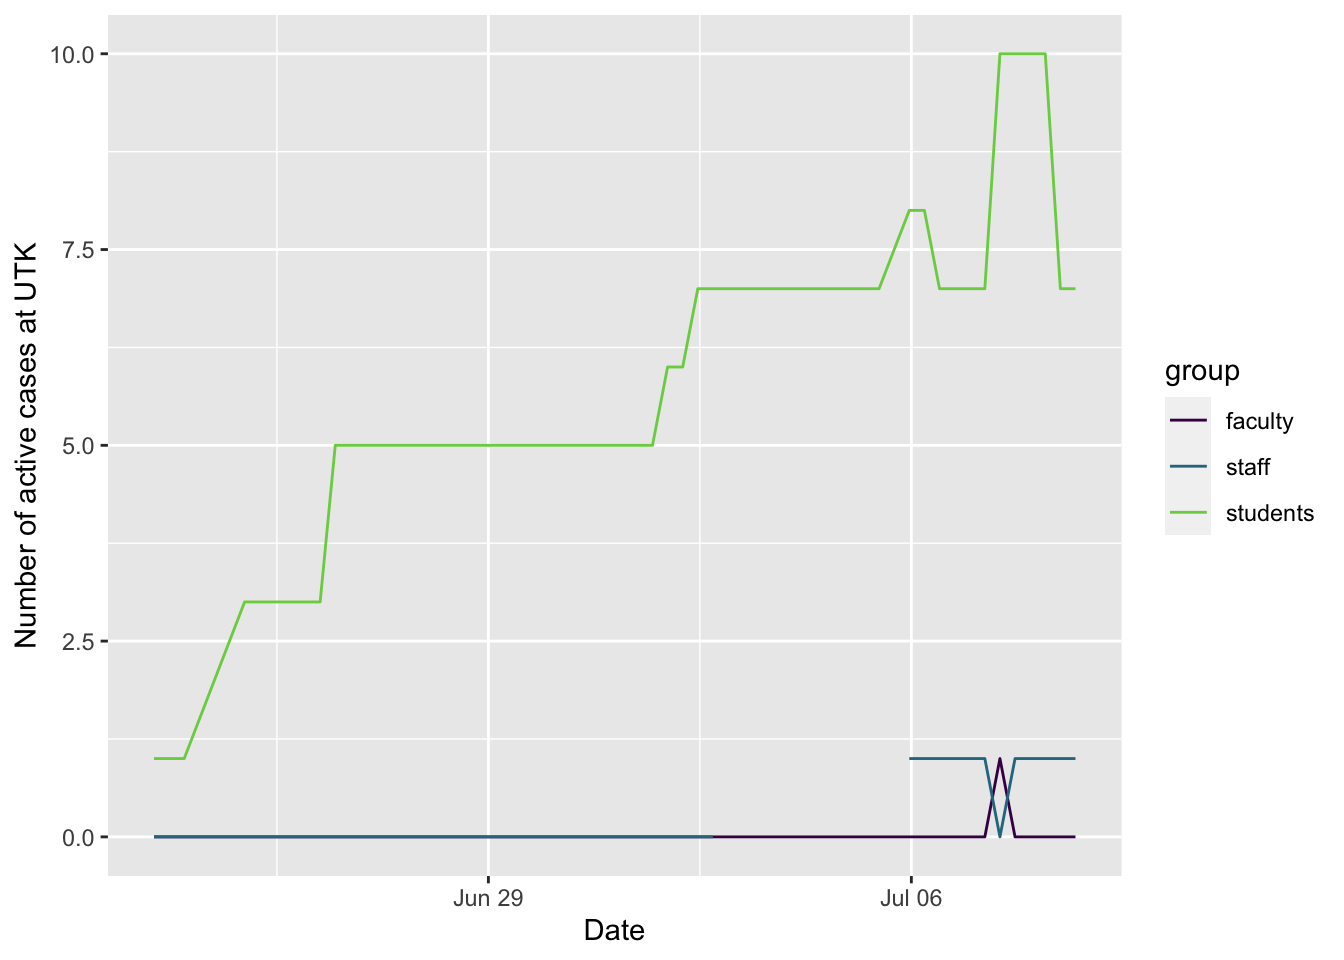
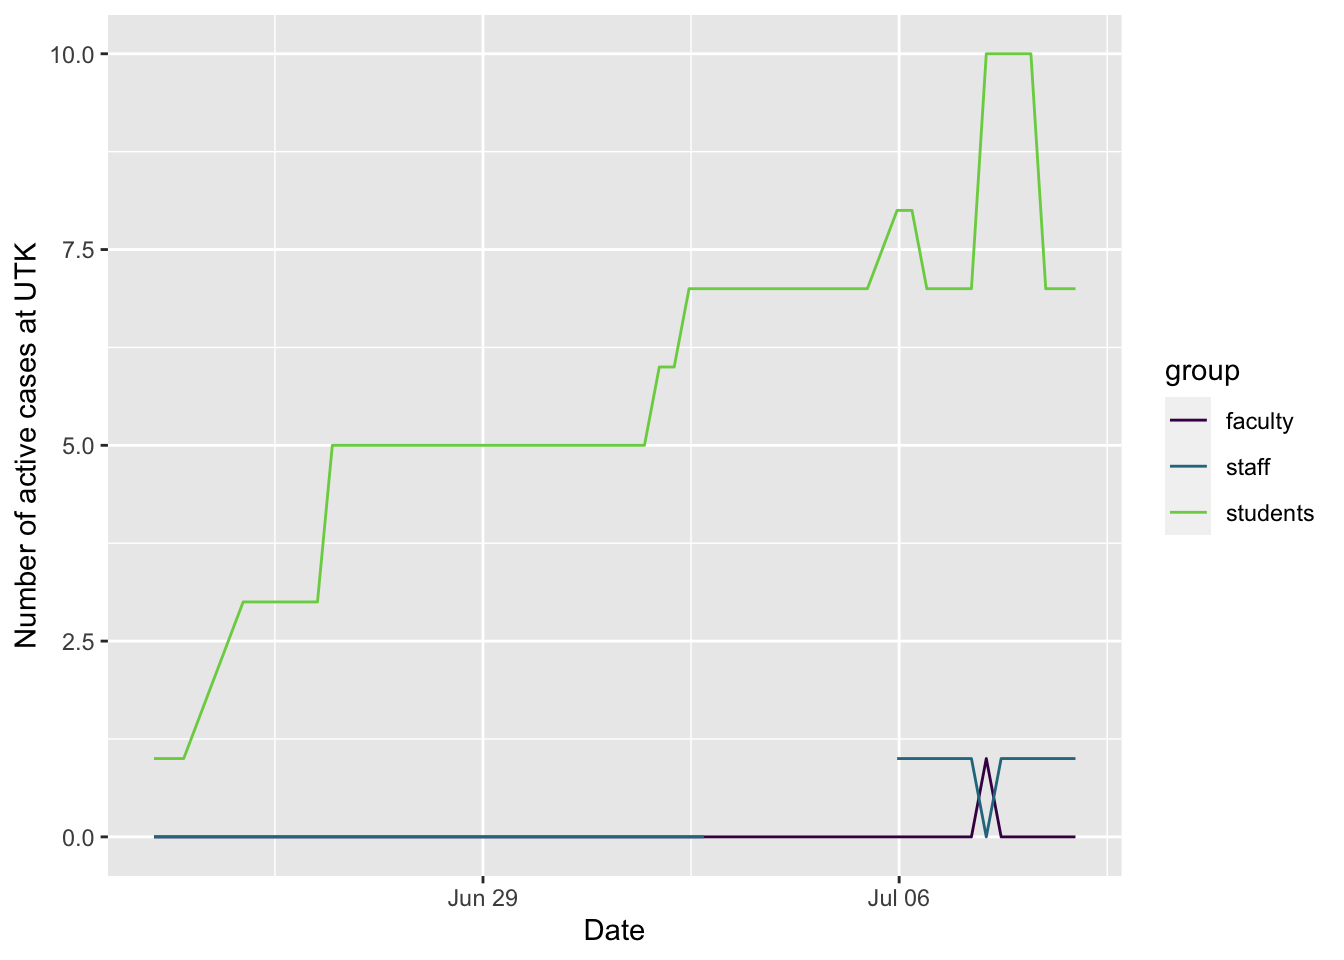
updating site

diff --git a/docs/covid.html b/docs/covid.html
@@ -412,7 +412,7 @@ $(document).ready(function () {
 <li><a href="https://projects.propublica.org/reopening-america/">ProPublica’s tracker of state status</a>. Click on the play button below their map to see how rates are changing over time, and dig into info on your state.</li>
 </ul>
 <hr />
-<p>Here are some plots, created in R using data from <a href="https://covid19datahub.io" class="uri">https://covid19datahub.io</a> (Guidotti, E., Ardia, D., (2020), “COVID-19 Data Hub”, Working paper, doi: 10.13140/RG.2.2.11649.81763), as well as information from Google and the <a href="https://www.tn.gov/health/cedep/ncov/data/downloadable-datasets.html">state of Tennessee dataset page</a> and plotting and analysis using the <code>forecast</code>, <code>ggplot2</code>, <code>reshape2</code>, and <code>dplyr</code> packages. It also uses the <a href="https://github.com/mtna/rds-r">rds-r</a> package from <a href="https://www.richdataservices.com/" class="uri">https://www.richdataservices.com/</a>. Plots created on 2020-07-08 18:13:55. I use <code>ggplot2</code>’s <code>geom_smooth()</code> function for the smoothed regression plots with its default formula, which uses loess smoothing for this many points. This is not based on a model of disease spread or anything similarly sophisticated, just drawing a smooth curve to summarize noisy points (see <a href="https://www.itl.nist.gov/div898/handbook/pmd/section1/pmd144.htm">here</a> for more details).</p>
+<p>Here are some plots, created in R using data from <a href="https://covid19datahub.io" class="uri">https://covid19datahub.io</a> (Guidotti, E., Ardia, D., (2020), “COVID-19 Data Hub”, Working paper, doi: 10.13140/RG.2.2.11649.81763), as well as information from Google and the <a href="https://www.tn.gov/health/cedep/ncov/data/downloadable-datasets.html">state of Tennessee dataset page</a> and plotting and analysis using the <code>forecast</code>, <code>ggplot2</code>, <code>reshape2</code>, and <code>dplyr</code> packages. It also uses the <a href="https://github.com/mtna/rds-r">rds-r</a> package from <a href="https://www.richdataservices.com/" class="uri">https://www.richdataservices.com/</a>. Plots created on 2020-07-09 01:19:40. I use <code>ggplot2</code>’s <code>geom_smooth()</code> function for the smoothed regression plots with its default formula, which uses loess smoothing for this many points. This is not based on a model of disease spread or anything similarly sophisticated, just drawing a smooth curve to summarize noisy points (see <a href="https://www.itl.nist.gov/div898/handbook/pmd/section1/pmd144.htm">here</a> for more details).</p>
 <p>The number of new and active cases should be not be going up if things are well-controlled, and ideally should be going down. The number of active cases is the number of positive cases minus the total of recovered or deceased cases: note it is from those tested and shown to be positive, but there are likely more people with covid who have not been tested. This uses data from <a href="https://www.tn.gov/health/cedep/ncov/data/downloadable-datasets.html" class="uri">https://www.tn.gov/health/cedep/ncov/data/downloadable-datasets.html</a>. Note that the number of active cases in Knox County reported by the state differs from the <a href="https://covid.knoxcountytn.gov/case-count.html#covid_data">county website</a>, sometimes dramatically (on June 16, the county website said 102 active cases, while the state says 178, for example) – I suspect this is based on the number of recovered cases not being updated as quickly in the state data, but I do not know. Knox County does not seem to offer a download of their data through time, so I am using the state’s data. The number of new cases per day seems to align fairly well, but not perfectly, between the state and county data, too.</p>
 <p><img src="covid_files/figure-html/plotsA-1.png" width="672" /><img src="covid_files/figure-html/plotsA-2.png" width="672" /></p>
 <p>A question is whether testing is adequate. The White House has said about 30 tests per 1000 people per month is adequate (this is also what <a href="https://projects.propublica.org/reopening-america/#notes">ProPublica</a> uses); others have argued that around 45 tests per 1000 people per month is better, though with variation depending on infection rate (see <a href="https://www.statnews.com/2020/04/27/coronavirus-many-states-short-of-testing-levels-needed-for-safe-reopening/">here</a>). These are the black lines on the plots below (calculated as tests per day, given Knox County’s population of 470313).</p>
